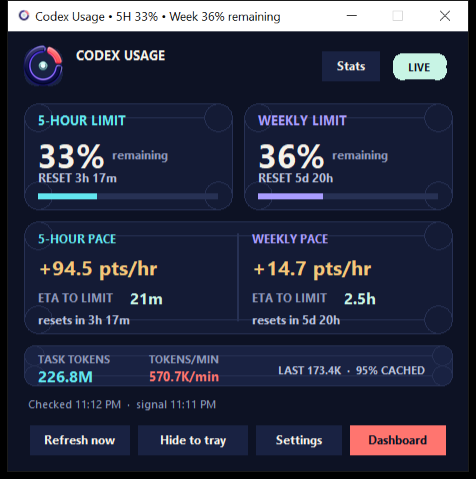
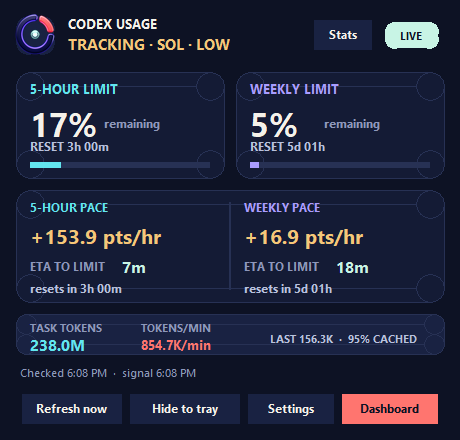
Show context on counter and extend Weekly trends

diff --git a/codex_usage_counter.py b/codex_usage_counter.py
@@ -2194,6 +2194,18 @@ class UsageApp:
             self.canvas.create_image(35, 35, image=self.icon_image, anchor="center")
 
         self.canvas.create_text(68, 23, text="CODEX USAGE", anchor="w", fill=COLORS["text"], font=("Segoe UI", 10, "bold"))
+        context_name = format_prominent_context(snapshot.model, snapshot.reasoning_effort)
+        context_text = f"TRACKING · {context_name}"
+        if len(context_text) > 38:
+            context_text = f"{context_text[:35].rstrip()}…"
+        self.canvas.create_text(
+            68,
+            44,
+            text=context_text,
+            anchor="w",
+            fill=COLORS["amber"],
+            font=("Segoe UI", 11, "bold"),
+        )
 
         if not snapshot.has_data:
             status_text, status_color = "WAITING", COLORS["amber"]
@@ -2625,6 +2637,12 @@ class UsageApp:
     def _set_statistics_context(self, model: Any, effort: Any) -> None:
         if self.stats_context_label is None:
             return
+        if self.stats_daily_view or self.stats_weekly_view:
+            if self.stats_context_label.winfo_manager():
+                self.stats_context_label.pack_forget()
+            return
+        if not self.stats_context_label.winfo_manager():
+            self.stats_context_label.pack(side="right", padx=(0, 14))
         self.stats_context_label.configure(text=format_prominent_context(model, effort))
 
     def _select_statistics_point(self, event: Any) -> None:
@@ -3619,17 +3637,15 @@ class UsageApp:
             color: str,
             tag: str,
         ) -> None:
-            """Trace adjacent Daily bar tops without bridging missing calendar days."""
+            """Trace adjacent interval bars without bridging a missing day or week."""
 
-            if is_weekly:
-                return
             coordinates: list[float] = []
             previous_start: Optional[float] = None
             for bucket_start, x, y in points:
                 if previous_start is not None:
                     previous_date = datetime.fromtimestamp(previous_start).astimezone().date()
                     current_date = datetime.fromtimestamp(bucket_start).astimezone().date()
-                    if (current_date - previous_date).days != 1:
+                    if (current_date - previous_date).days != interval_days:
                         if len(coordinates) >= 4:
                             canvas.create_line(*coordinates, fill=COLORS["ink"], width=5, tags=("stats-daily-trend-underlay", tag))
                             canvas.create_line(*coordinates, fill=color, width=2, tags=("stats-daily-trend", tag))

diff --git a/docs/CURRENT_TASK.md b/docs/CURRENT_TASK.md
@@ -6,7 +6,7 @@ Make Statistics visually cohesive and immediately understandable, including mode
 
 ## Current state
 
-- Branch: `agent/prominent-model-context`
+- Branch: `agent/main-screen-model-context`
 - Base commit: `93ab1bf` (`Track Codex token usage in real time`)
 - Local telemetry now reports a 300-minute primary window and a 10,080-minute secondary window.
 - The old v1.1.15 executable selects `primary` blindly, causing it to show 5-hour usage as if it were weekly.
@@ -22,14 +22,15 @@ Make Statistics visually cohesive and immediately understandable, including mode
 - Usage bars now occupy two directly labeled small-multiple lanes inside one Usage pane: 5-hour above Weekly, both using the same scale and time axis.
 - Cyan consistently identifies 5-hour data, violet identifies weekly data, and mint identifies token data across cards, bars, pace lines, and selection markers.
 - Usage cards have stronger value typography than pace and token cards; pane headings contain their own direct series keys, removing the detached color legend.
-- Daily Pace uses two directly labeled zero-baseline lanes with independently rounded scales: 5-hour average pace and weekly average pace. Daily usage and pace retain full-day bars and add thin top-center trend lines with circular point markers across adjacent recorded days, matching the supplied stock-app reference; missing calendar days break the lines. Token activity remains bars only. This keeps exact daily magnitude visible while making direction easier to follow.
+- Daily and Weekly Pace use two directly labeled zero-baseline lanes with independently rounded scales: 5-hour average pace and weekly average pace. Usage and pace retain full-interval bars and add thin top-center trend lines with circular point markers across adjacent recorded days or weeks, matching the supplied stock-app reference; missing intervals break the lines. Token activity remains bars only. This keeps exact magnitude visible while making direction easier to follow.
 - Statistics now adapts its summary grid to the available width: narrow windows retain three 42-pixel rows of four cards, while wide/fullscreen Statistics uses two rows of six cards. The wide layout starts the chart panes at `y=146` rather than `y=192`, and uses tighter pane gaps plus a smaller token allocation to give the actual chart areas substantially more height.
 - Statistics now has three intentional views: Hourly, Daily, and Weekly. Hourly opens by default at one hour and mouse-wheel zooms through readable stops down to one minute and out through all retained history; Daily and Weekly aggregate calendar-aligned bars.
 - Model and reasoning-effort metadata is saved with new local usage samples and annotated only on the detailed Hourly timeline: thin, subtle amber indicates a model transition and thin, subtle dashed coral indicates an effort transition. The selected-point readout shows the active context.
 - Hourly now removes long idle spans from the horizontal layout while breaking each pace path at the activity boundary, so sessions sit together without false straight connectors.
 - Hourly overlays 5-hour and weekly pace in one pane with separate color-coded Y-axes. Weekly is fixed at 0–100 pts/hr; 5-hour remains independently data-scaled.
 - The overlaid-pace production executable is installed and running; the existing public screenshots are intentionally unchanged for this release.
-- Statistics promotes the active or selected model/effort into a large amber header badge, simplifying known model families to names such as `SOL · HIGH` instead of burying the full technical identifier in small helper text.
+- Hourly Statistics promotes the active or selected model/effort into a large amber header badge, simplifying known model families to names such as `SOL · HIGH` instead of burying the full technical identifier in small helper text. Daily and Weekly hide the badge because their aggregate intervals may contain multiple contexts.
+- The main counter repeats the live simplified model/effort directly below `CODEX USAGE` as an amber `TRACKING · SOL · HIGH` header, so the allowance, pace, ETA, and token figures have visible execution context without opening Statistics.
 
 ## Decisions
 
@@ -50,11 +51,12 @@ Make Statistics visually cohesive and immediately understandable, including mode
 - Keep bars for usage, but use aligned series lanes rather than alternating paired bars at each timestamp; this preserves the requested bar encoding without turning dense history into visual texture.
 - Use series identity—not metric type—as the persistent color role. Pace is distinguished by its line mark and pane position, not unrelated coral/amber hues.
 - Render usage lanes as contiguous step-filled blocks: adjacent recorded time bins share an edge and fill from zero to the recorded value. Forward-fill known 5-hour values across later recorded bins, but do not invent values before 5-hour telemetry begins. Daily bars fill their complete calendar-day slot while missing days remain blank.
-- In Daily Pace only, scale each allowance independently from zero with modest headroom and directly display its scale in its own lane. Use the same scale/lane map for the rendered daily bars, trend lines, and selected-point marker. Connect only adjacent recorded calendar days; never bridge a missing day. Keep tokens bar-only.
+- In Daily and Weekly Pace, scale each allowance independently from zero with modest headroom and directly display its scale in its own lane. Use the same scale/lane map for the rendered bars, trend lines, and selected-point marker. Connect only adjacent recorded calendar intervals; never bridge a missing day or week. Keep tokens bar-only.
 - Keep summary-card geometry centralized and shared between Daily and intraday renderers so chart-space allocation, hierarchy, and selection behavior stay consistent across every Statistics interval.
 - On wide displays, prioritize the charts with a 6×2 card grid; preserve the 4×3 layout below 1,100 canvas pixels so card labels and selected values remain readable.
 - Treat model and effort as timestamped explanatory context—not usage metrics—so their markers never affect allowance, rate, token, or ETA calculations. Do not backfill markers into historical samples that predate metadata collection.
-- Keep the prominent context badge synchronized with chart inspection: live context when no point is selected, and the selected point's context while inspecting history. Shorten known model families (`sol`, `terra`, `luna`) for glanceability while retaining raw metadata in history.
+- Keep the prominent context badge synchronized with Hourly chart inspection: live context when no point is selected, and the selected point's context while inspecting history. Hide it in Daily and Weekly because one aggregate interval can span several model/effort changes. Shorten known model families (`sol`, `terra`, `luna`) for glanceability while retaining raw metadata in history.
+- Render the main counter's context from the same live snapshot used by its numeric metrics, so every automatic or manual refresh updates the tracked model/effort and values together.
 - Use one targeted full metadata scan for an active session only if the fast file-tail reader has no model/effort context; cache the result and keep normal append updates lightweight.
 - Keep real timestamps and recorded samples, but render Hourly on a compressed active-time x-axis: collapse inactivity longer than the 10-minute local-signal freshness limit to effectively zero horizontal duration, show a small `//` boundary mark, and keep pace paths segmented so sessions are adjacent without false connecting lines. Do not use raw session-file IDs as boundaries because multiple local files can alternate while Codex is continuously active.
 - Keep Hourly usage on the shared 0–100% scale. Overlay 5-hour and weekly pace in one pane so timing changes are easy to compare, but map them to separate color-coded Y-axes because 5-hour pace can be orders of magnitude larger. Fix the Hourly weekly pace Y-axis at 0–100 pts/hr while keeping the 5-hour pace axis independently data-scaled. Preserve session-aware path breaks so the shared pane never implies measurements across inactivity.
@@ -127,7 +129,8 @@ Make Statistics visually cohesive and immediately understandable, including mode
[4 lines of base64/hex data omitted]
 
 ## Next steps
 
-1. Manually inspect the prominent model/effort badge before the next public release.
+1. Publish the main-context/Weekly-trend build and refreshed screenshots as the next GitHub release.

diff --git a/README.md b/README.md
@@ -7,16 +7,17 @@ A live Windows tray counter for Codex 5-hour and weekly usage, rates, ETAs, rese
 ## What it does
 
 - Shows independent 5-hour and weekly Codex allowance percentages, reset countdowns, pace, and ETA.
+- Shows the currently tracked model and reasoning effort prominently on the main counter, such as **TRACKING · SOL · HIGH**.
 - Tracks current-task input, cached-input, output, reasoning, total, and last-response token counts from local Codex aggregate telemetry.
 - Refreshes within about a second when an already-discovered active Codex session file changes; configurable polling remains the fallback.
 - Shows timestamped model and reasoning-effort changes on the detailed Hourly chart with thin, subtle amber model markers and thin, subtle dashed-coral effort markers.
-- Shows the active or selected model and reasoning effort as a large, simplified Statistics header label such as **SOL · HIGH**.
+- Shows the active or selected model and reasoning effort as a large, simplified **Hourly** Statistics header label such as **SOL · HIGH**; aggregate Daily and Weekly views omit context because it can change within an interval.
 - Keeps Statistics focused on **Hourly** (the default; mouse-wheel zoom from one minute through all retained history), **Daily**, and **Weekly** views.
 - Displays the most constrained allowance directly in the notification-area tray icon, so the number is useful without hovering; the tooltip identifies both windows.
 - Shows a custom in-app tray milestone popup above the Windows notification area; it does not use Windows toast or balloon notifications.
 - Polls local usage every two minutes by default; every automatic read refreshes usage, rate, and ETA together, while **Refresh now** reads immediately outside that schedule.
 - Supports Used or Remaining display mode, always-on-top behavior, optional Start with Windows behavior, optional custom milestone chime, configurable polling, trigger percentage, and popup duration.
-- Keeps minute-level usage history in the zoomable **Hourly** view, plus stock-chart-style **Daily** and **Weekly** intervals with reset-aware 5-hour/weekly totals, pace, and token activity. Daily usage and pace bars include thin trend lines with circular points across adjacent recorded days.
+- Keeps minute-level usage history in the zoomable **Hourly** view, plus stock-chart-style **Daily** and **Weekly** intervals with reset-aware 5-hour/weekly totals, pace, and token activity. Daily and Weekly usage and pace bars include thin trend lines with circular points across adjacent recorded intervals.
 - Opens Statistics as a fullscreen view with a responsive, edge-to-edge chart canvas.
 - Keeps matching 5-hour and weekly cards side by side and updates those cards when an Hourly, Daily, or Weekly point is clicked, dragged across, or selected with the mouse wheel.
 - Provides continuous 5-hour and weekly usage bars in separate lanes, overlays 5-hour and weekly pace in one pane with separate color-coded Y-axes, fixes weekly pace at 0–100 pts/hr while 5-hour pace scales independently, packs active sessions together by removing idle time from the Hourly x-axis, and keeps pace paths broken at every session boundary so no false connecting lines are drawn.
@@ -34,11 +35,11 @@ The executable is self-contained and does not require Python to be installed.
 
 ### Counter window
 
-![Codex Usage Counter showing separate 5-hour and weekly allowance cards, rates, ETAs, and token activity](screenshots/counter.png)
+![Codex Usage Counter showing the tracked model and effort above separate 5-hour and weekly allowance cards, rates, ETAs, and token activity](screenshots/counter.png)
 
 ### Statistics view
 
-![Codex Usage Counter Statistics showing continuous filled 5-hour and weekly usage bars, separate rate lines, and token activity](screenshots/statistics.png)
+![Codex Usage Counter Hourly Statistics showing the prominent model and effort context, continuous 5-hour and weekly usage, pace lines, and token activity](screenshots/statistics.png)
 
 ## How the data is read
 
